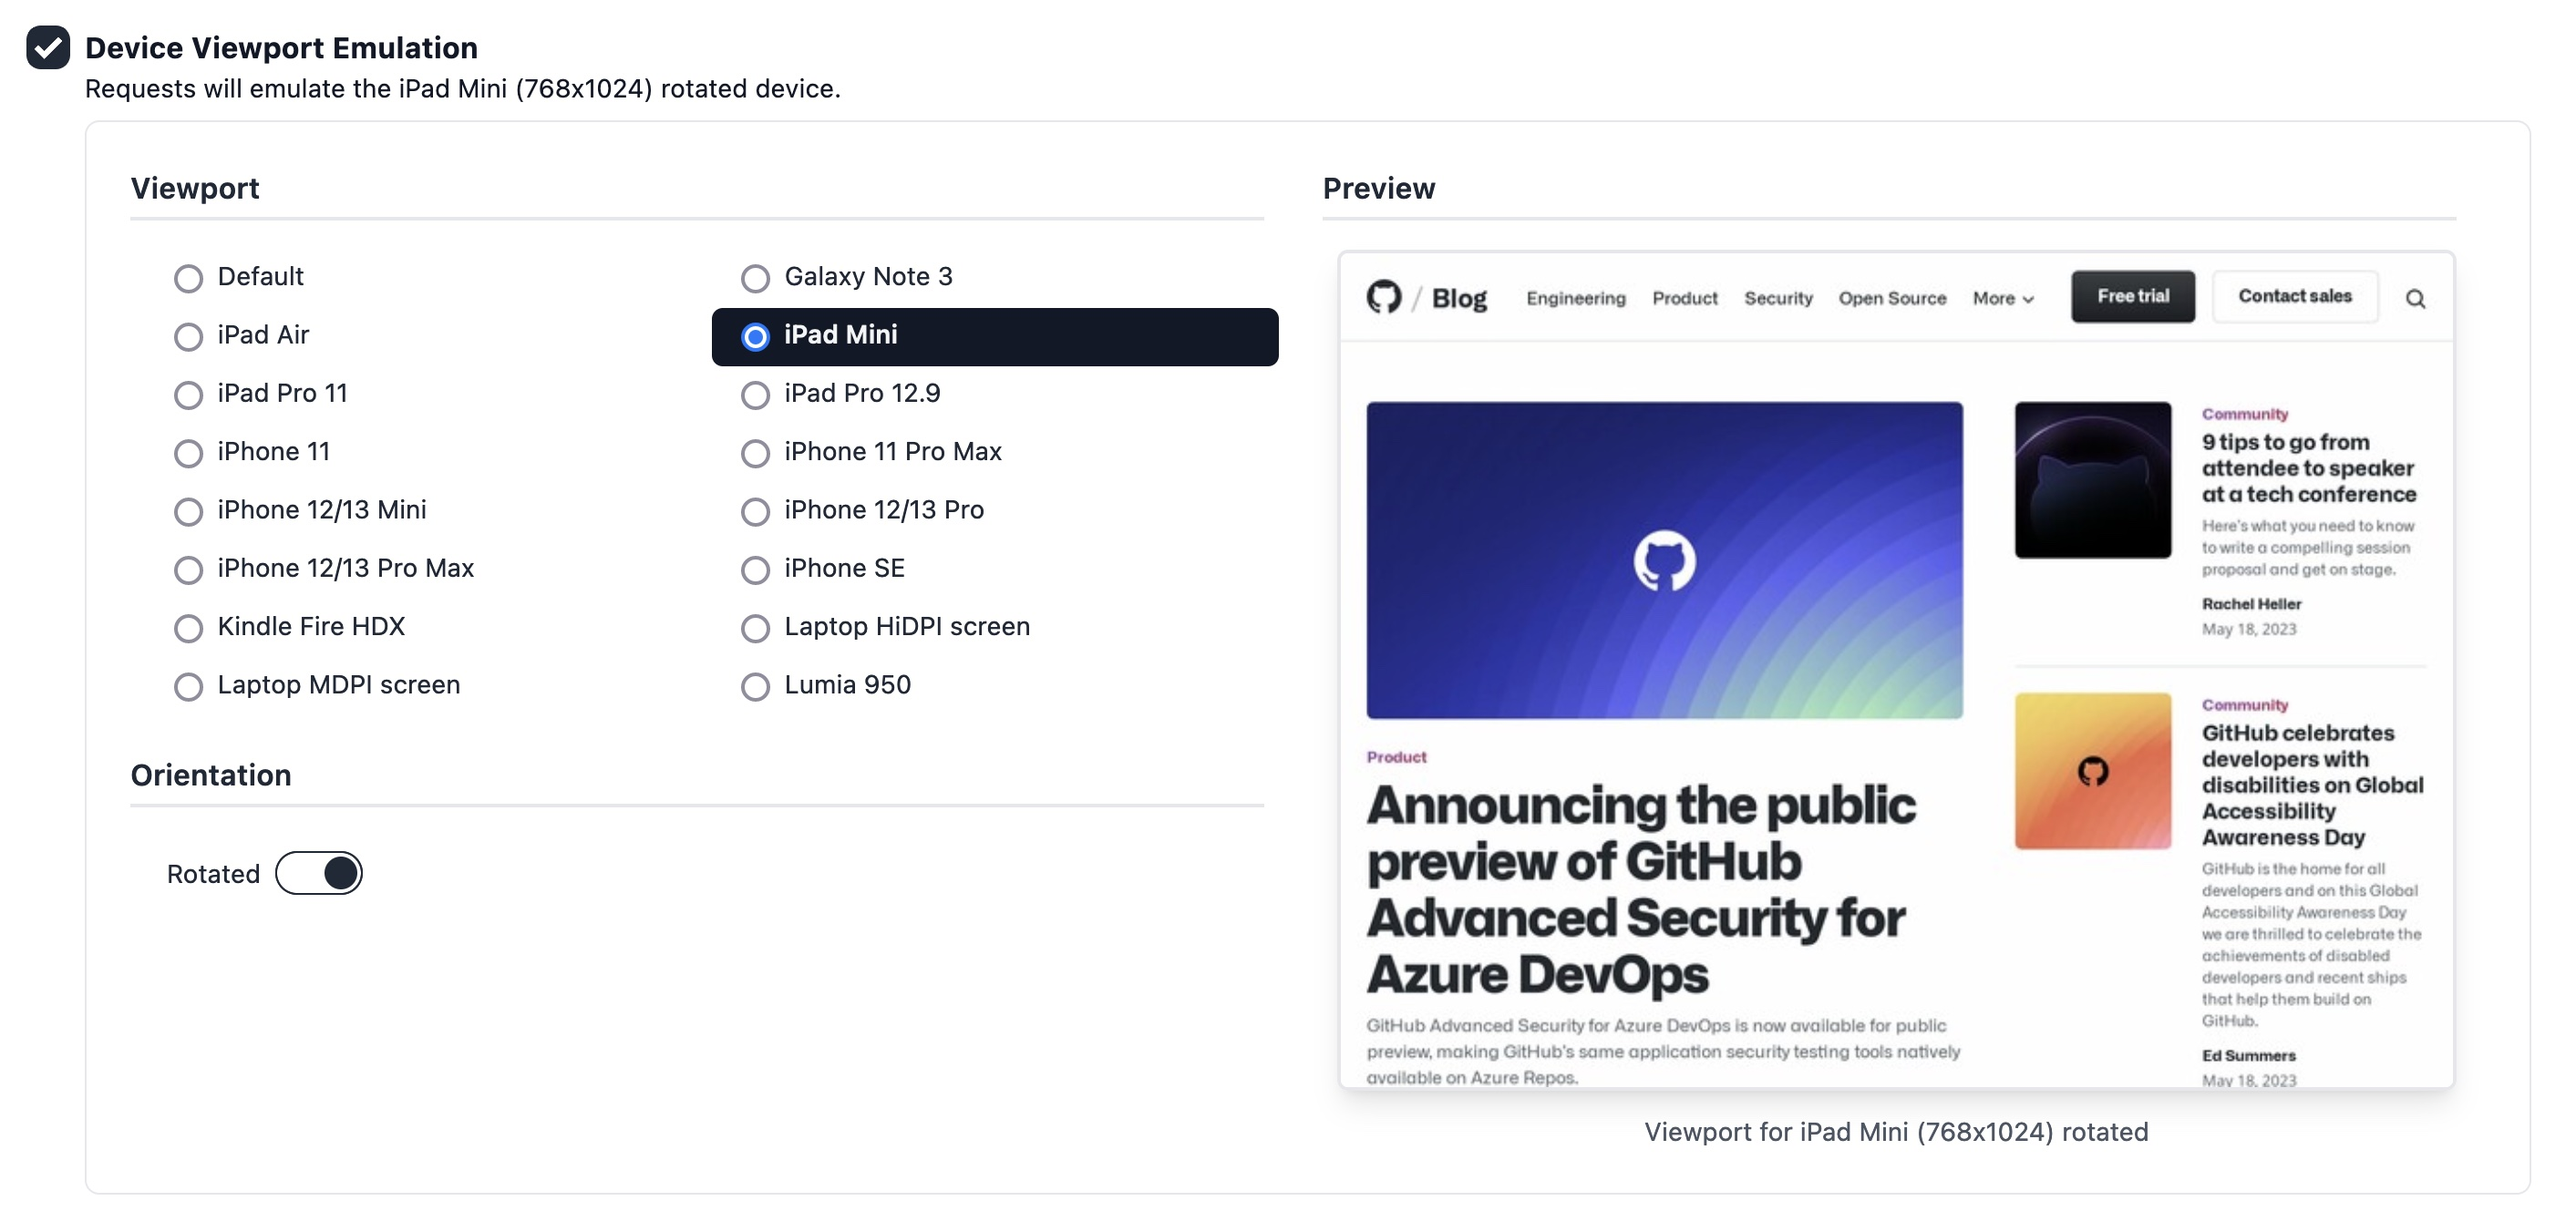
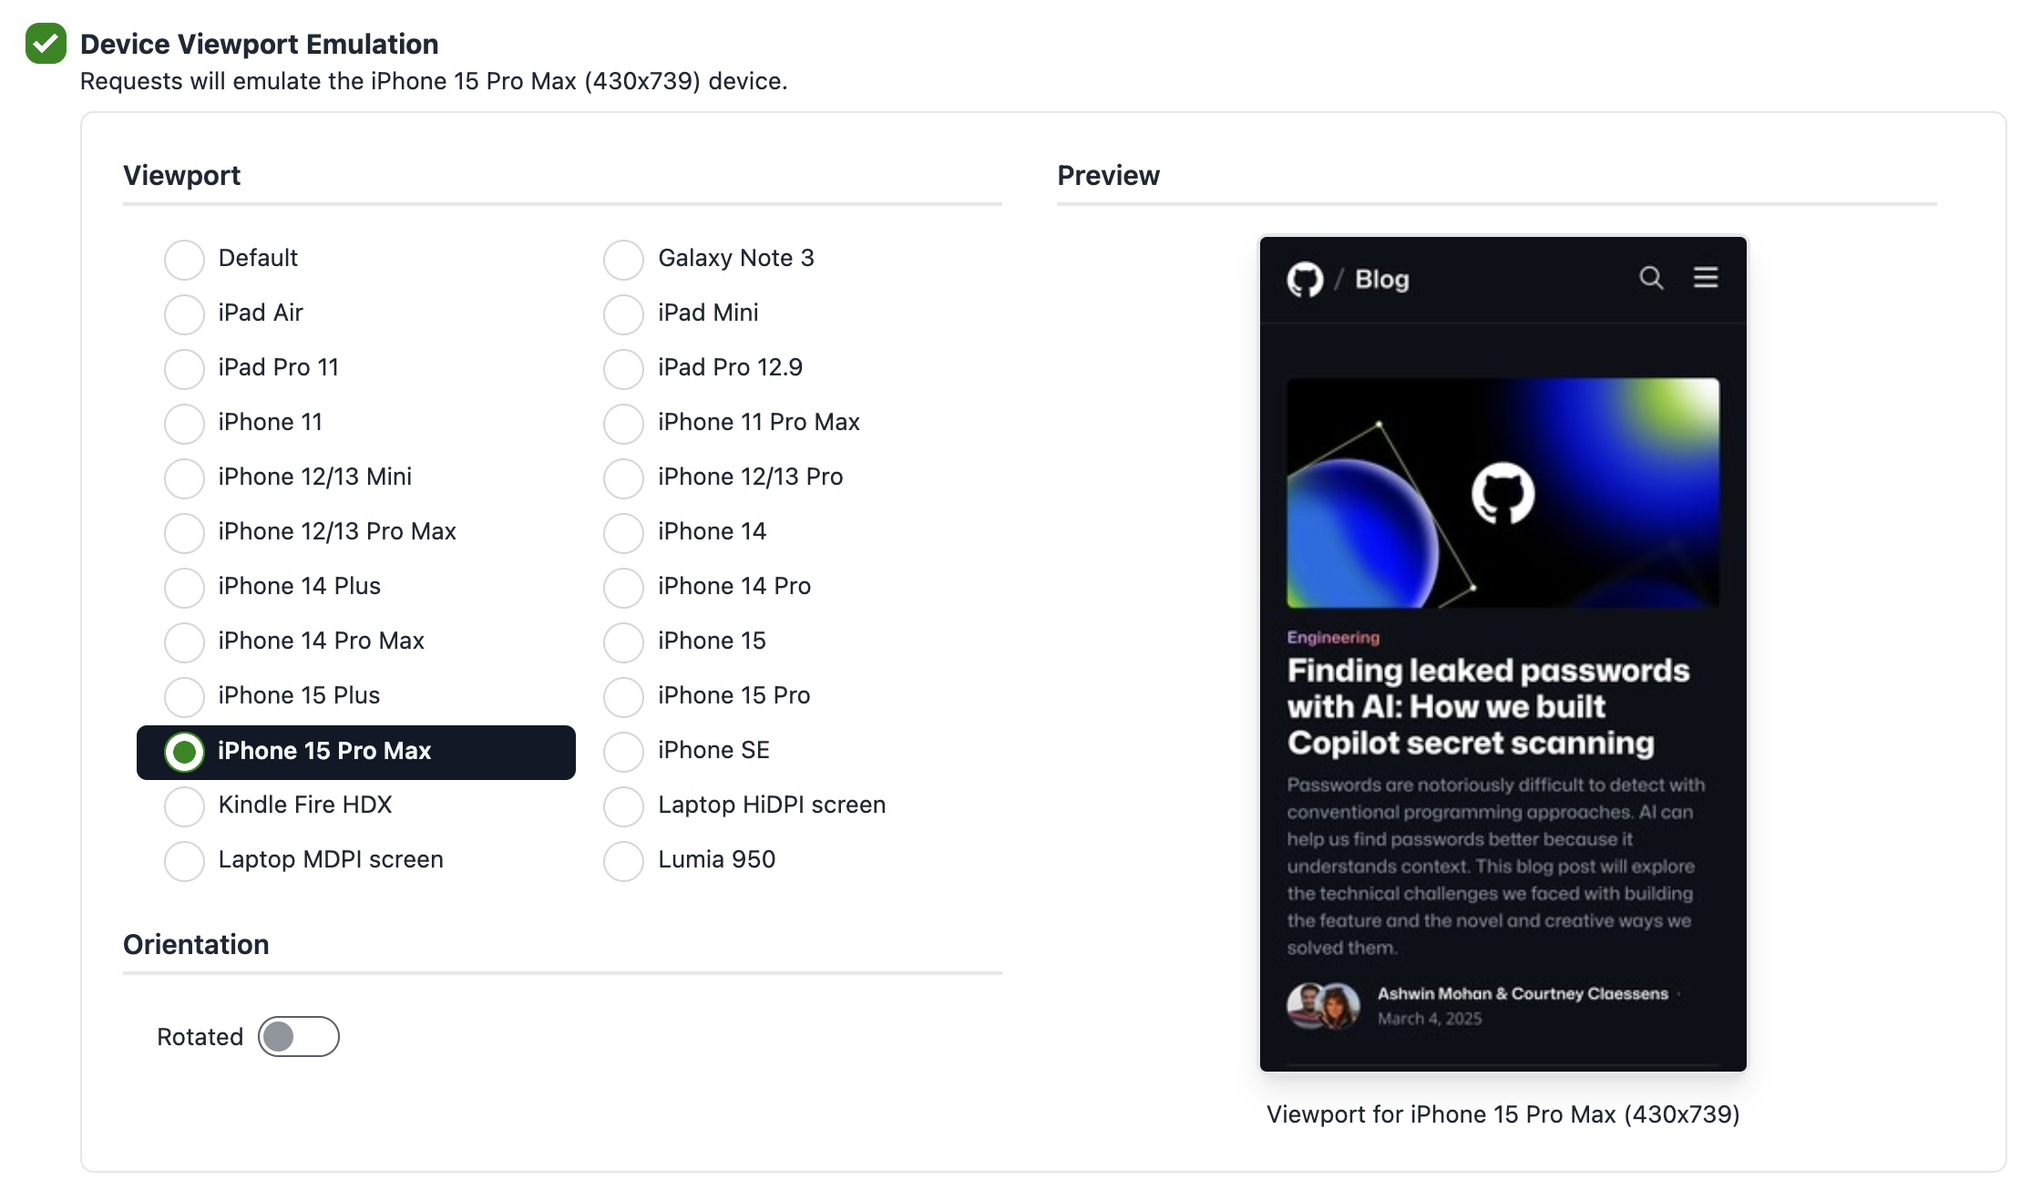
update device viewport list

diff --git a/docs/device-viewport-emulation.md b/docs/device-viewport-emulation.md
@@ -12,20 +12,31 @@ To emulate a device viewport, just enable the **Device Viewport Emulation** when
 
 ## Currently supported devices
 
-- Galaxy Note 3 (360x640, DPR 3)
-- Kindle Fire HDX (800x1280, DPR 2)
-- Laptop with HiDPI screen (1440x900, DPR 2)
-- Laptop with MDPI screen (1280x800, DPR 1)
-- Lumia 950 (360x640, DPR 4)
-- iPad Air (820x1180, DPR 2)
-- iPad Mini (768x1024, DPR 2)
-- iPad Pro 11 (834x1194, DPR 2)
-- iPad Pro 12.9 (1024x1366, DPR 2)
-- iPhone 11 (414x828, DPR 2)
-- iPhone 11 Pro Max (414x896, DPR 3)
-- iPhone 12/13 Mini (375x812, DPR 3)
-- iPhone 12/13 Pro (390x844, DPR 3)
-- iPhone 12/13 Pro Max (428x926, DPR 3)
-- iPhone SE (320x568, DPR 2)
+| Name | Width | Height | Device Scale Factor |
+|------|--------|---------|-------------------|
+| Default | 800 | 600 | 1.0 |
+| Galaxy Note 3 | 360 | 640 | 3.0 |
+| iPad Air | 820 | 1,180 | 2.0 |
+| iPad Mini | 768 | 1,024 | 2.0 |
+| iPad Pro 11 | 834 | 1,194 | 2.0 |
+| iPad Pro 12.9 | 1,024 | 1,366 | 2.0 |
+| iPhone 11 | 414 | 828 | 2.0 |
+| iPhone 11 Pro Max | 414 | 896 | 3.0 |
+| iPhone 12/13 Mini | 375 | 812 | 3.0 |
+| iPhone 12/13 Pro | 390 | 844 | 3.0 |
+| iPhone 12/13 Pro Max | 428 | 926 | 3.0 |
+| iPhone 14 | 390 | 663 | 3.0 |
+| iPhone 14 Plus | 428 | 745 | 3.0 |
+| iPhone 14 Pro | 393 | 659 | 3.0 |
+| iPhone 14 Pro Max | 430 | 739 | 3.0 |
+| iPhone 15 | 393 | 659 | 3.0 |
+| iPhone 15 Plus | 430 | 739 | 3.0 |
+| iPhone 15 Pro | 393 | 659 | 3.0 |
+| iPhone 15 Pro Max | 430 | 739 | 3.0 |
+| iPhone SE | 320 | 568 | 2.0 |
+| Kindle Fire HDX | 800 | 1,280 | 2.0 |
+| Laptop with HiDPI screen | 1,440 | 900 | 2.0 |
+| Laptop with MDPI screen | 1,280 | 800 | 1.0 |
+| Lumia 950 | 360 | 640 | 4.0 |
 
 Check the [full list of supported devices](https://rocketvalidator.com/devices) in Rocket Validator. 
